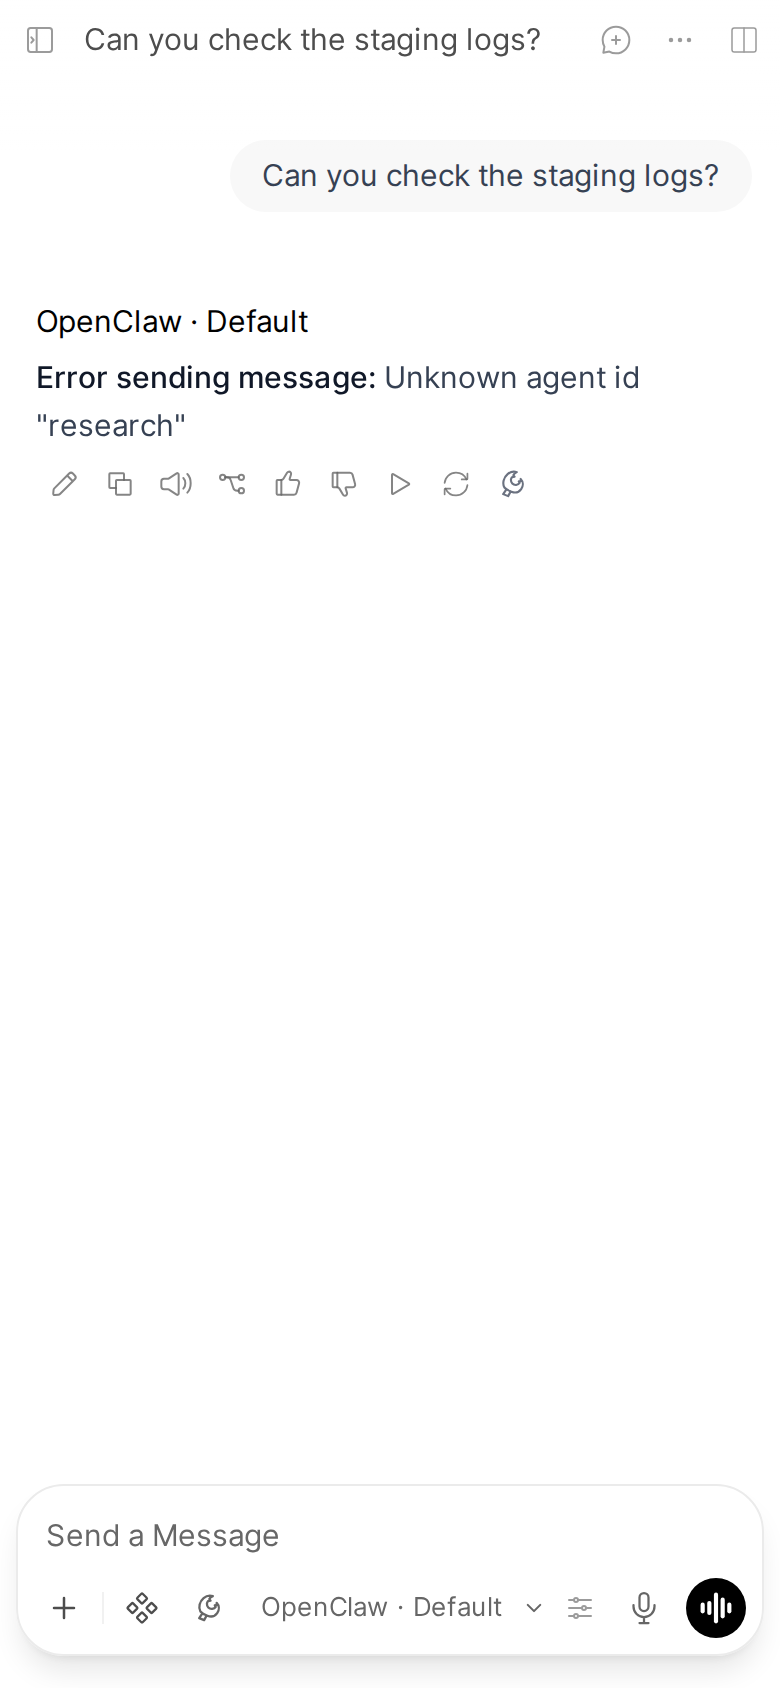
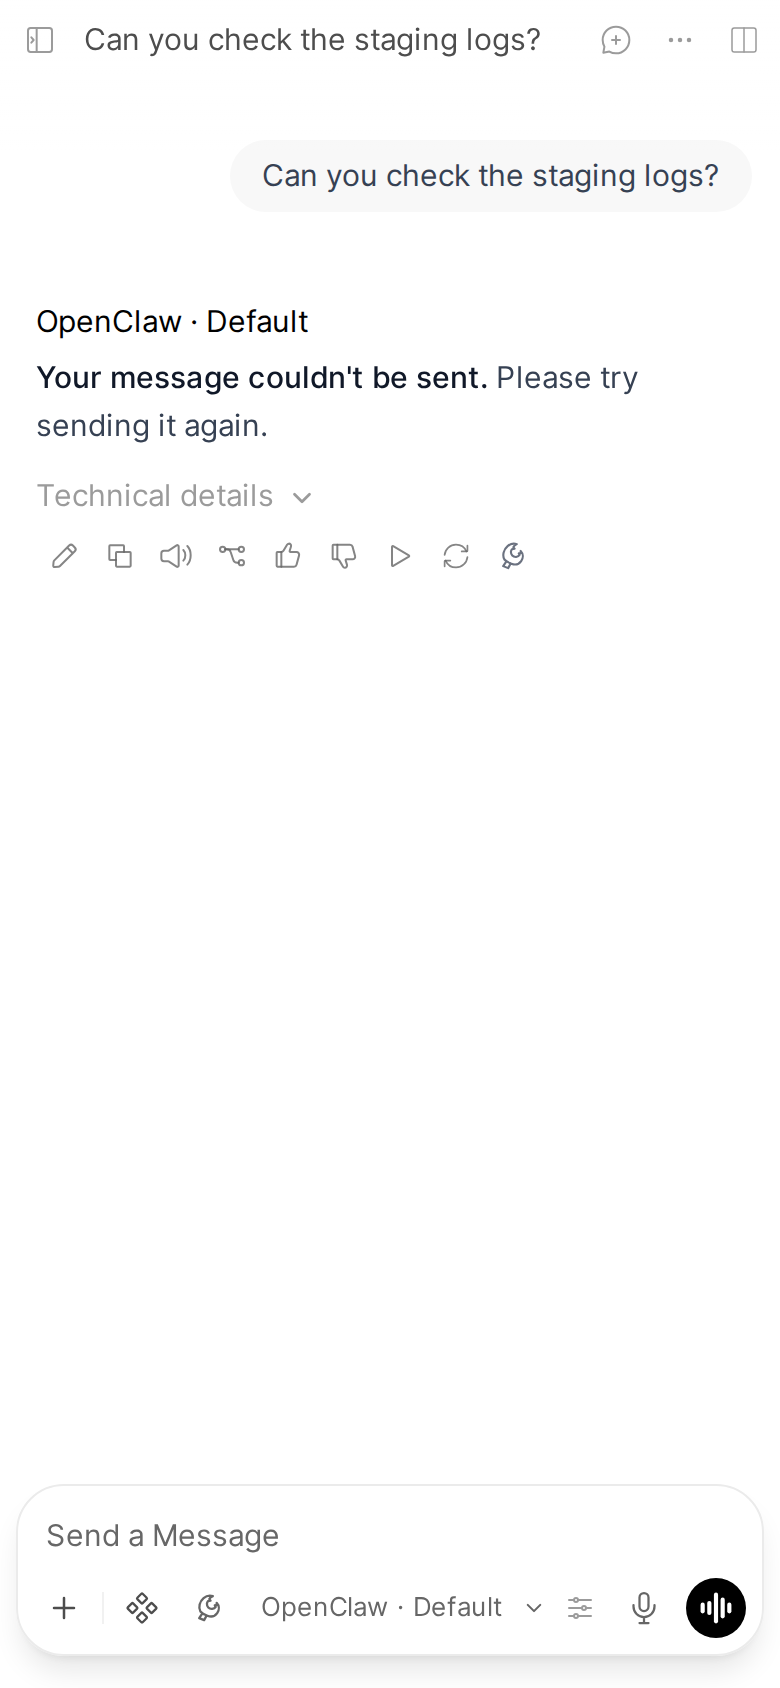
docs: the error screenshot shows the plain sentence from #328 (#335)
* Screenshots: the error-message scene waits for the plain sentence (#328)

* docs: the error screenshot shows #328's plain sentence

---------

diff --git a/scripts/screenshots/capture.py b/scripts/screenshots/capture.py
@@ -1149,12 +1149,13 @@ class Scenes:
                     text_selector=".chat-assistant >> nth=0")
 
     def error_message(self, page: Page) -> None:
-        """An actionable error: AGENT_ID names an agent the Gateway lacks."""
+        """A failed send: AGENT_ID names an agent the Gateway lacks. The chat shows
+        one plain sentence, the Gateway's own text collapsed under it."""
         old = pipe_valves(self.token, AGENT_ID="research")
         try:
             new_chat(page)
             chat = send(page, "Can you check the staging logs?")
-            wait_js(page, last_text_has('"research"'), "the error reply")
+            wait_js(page, last_text_has("couldn't be sent", "Technical details"), "the error reply")
             set_title(self.token, chat, "Staging logs")
             self.s.shot(page, "error-message")
         finally:

diff --git a/docs/troubleshooting.md b/docs/troubleshooting.md
@@ -46,7 +46,7 @@ Failures name the thing that fixes them. When the cause is genuinely ambiguous, 
 
 When a message can't be sent, the Gateway doesn't answer, or a run ends in an error, the chat shows one plain sentence in the language of your own message (Hebrew or English, no setting) and says to try again. The Gateway's own error text is kept under a collapsed **Technical details** block below it, so the sentences quoted in the table below are what to look for there.
 
-<img src="./img/error-message-light.png" alt="An error in the chat: the agent named in AGENT_ID does not exist on the Gateway" width="320">
+<img src="./img/error-message-light.png" alt="An error in the chat: one plain sentence saying the message could not be sent, with a collapsed Technical details line below it" width="320">
 
 | The chat shows | What to do |
 |---|---|
